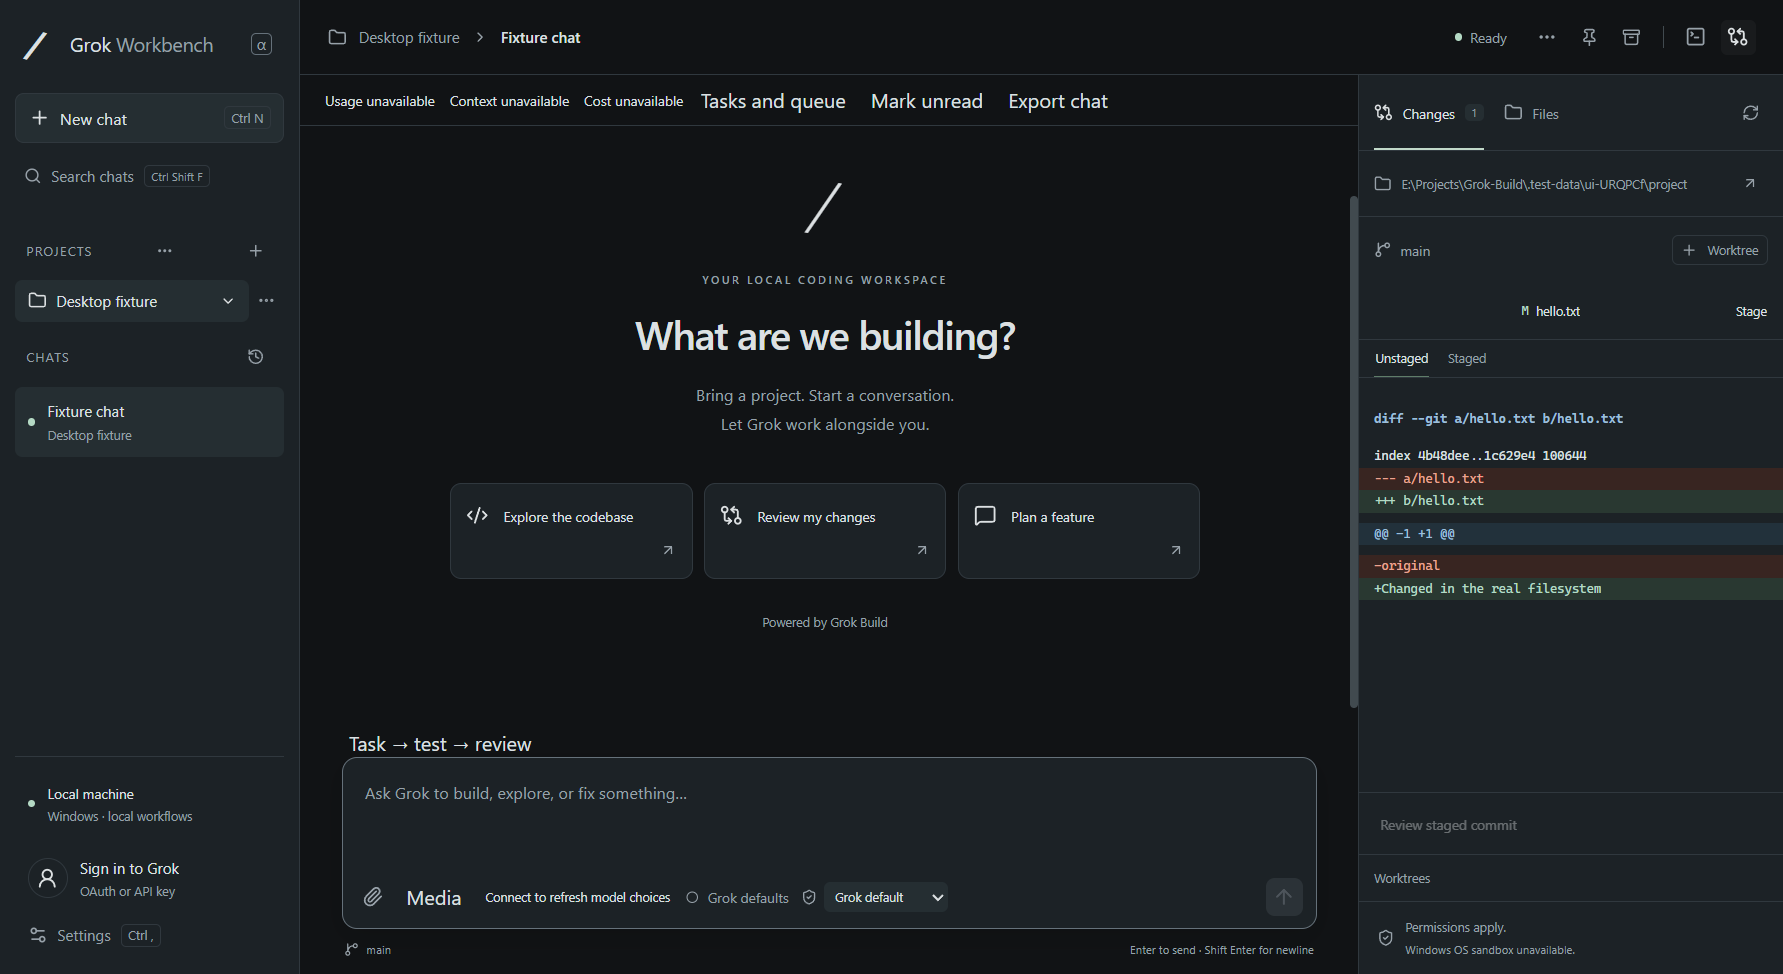
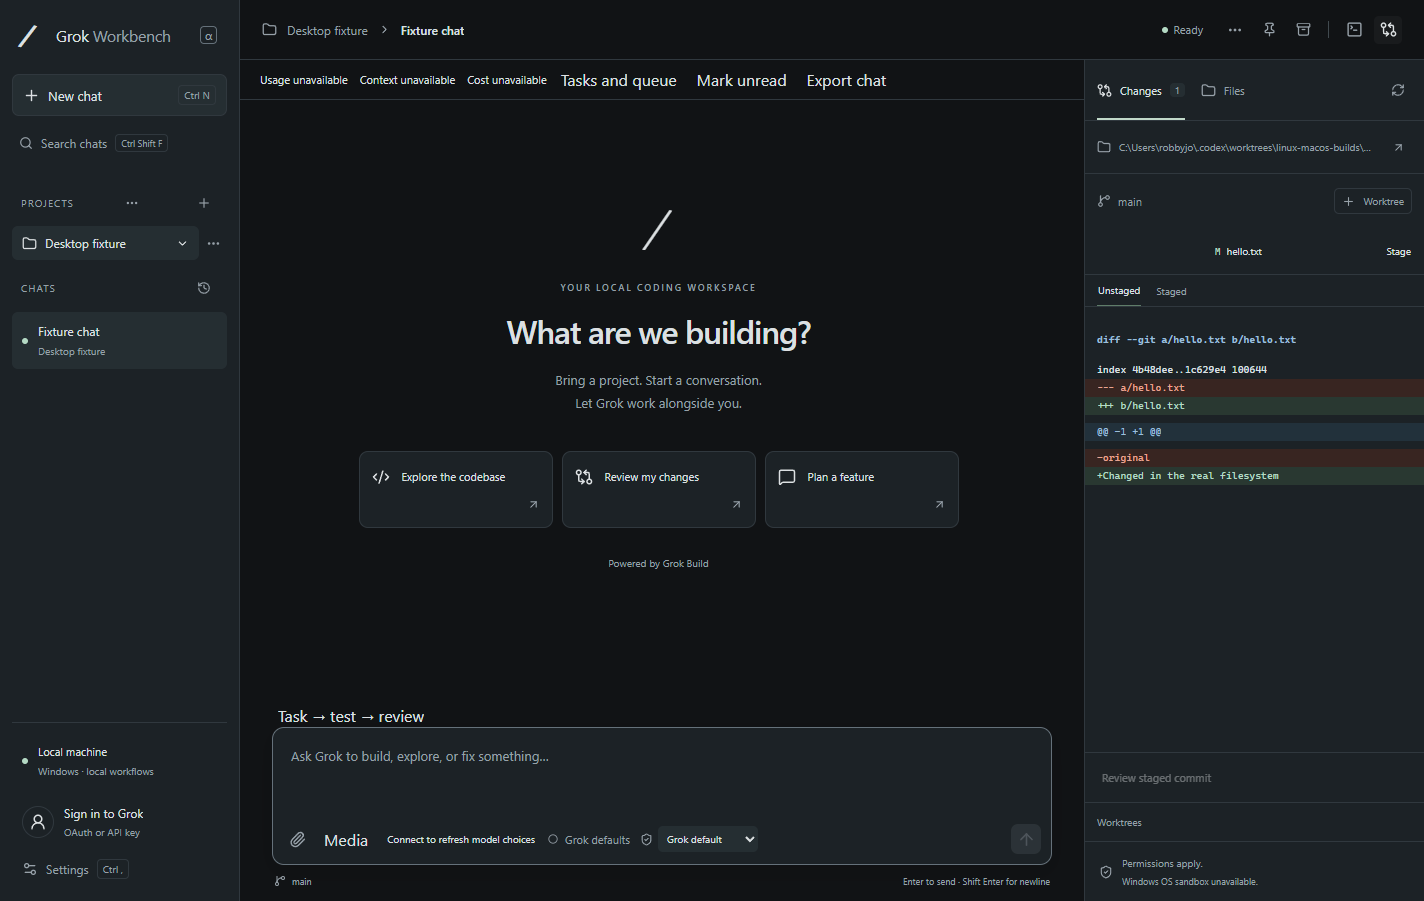
Record verified v0.8.5 publication and refresh website screenshot

diff --git a/website/index.html b/website/index.html
@@ -186,7 +186,7 @@
               fetchpriority="high"
           /></a>
           <figcaption>
-            <span>Grok Workbench 0.8.4 · Windows</span
+            <span>Grok Workbench 0.8.5 · Windows</span
             ><span>Actual app screenshot with a local test project. Click to enlarge.</span>
           </figcaption>
         </figure>

diff --git a/docs/VALIDATION.md b/docs/VALIDATION.md
@@ -2,24 +2,25 @@
 
 Current source version: **Grok Workbench 0.8.5**, with the pinned Grok Rust library embedded instead of a packaged CLI. The merged release adds experimental Linux and UNTESTED macOS packages; dates below use America/New_York. Earlier sections retain historical version-specific names and results.
 
-## 0.8.5 merged release candidate (November 1)
+## 0.8.5 published multi-platform release (November 1)
 
-The platform and extended-workbench branches are combined. Local build/typechecks
-and **111 backend tests** pass, with five optional/platform-specific cases skipped.
-Production dependency audit reports zero advisories. New regressions cover Linux
-provider keyring refusal, portable credential fallback, same-source platform
-publication, Windows update selection among multi-platform assets, and waiting
-for all public website download links. Final CI and publication results are
-recorded after artifact acceptance. Every application package is rebuilt from
-the merged 0.8.5 source; unchanged native-engine compilation caches may be reused
-after Cargo revalidates the pinned source and dependency graph.
+[Release v0.8.5](https://github.com/robbyjo/Grok-Workbench/releases/tag/v0.8.5) is Latest and targets source `626a93a30818d1c66d8a65ee9a95375d44a32ca7`. The merged branches are accepted by [Windows](https://github.com/robbyjo/Grok-Workbench/actions/runs/41274679777), [Linux](https://github.com/robbyjo/Grok-Workbench/actions/runs/41274679751) and [both Mac architectures](https://github.com/robbyjo/Grok-Workbench/actions/runs/41274680825). The [verified-artifact publisher](https://github.com/robbyjo/Grok-Workbench/actions/runs/41277647210) published only their exact accepted application packages. A [one-time CI dispatcher](https://github.com/robbyjo/Grok-Workbench/actions/runs/41277436028) used GitHub's short-lived job token to start the existing main publisher and [website workflow](https://github.com/robbyjo/Grok-Workbench/actions/runs/41277740697); no stored user credential was read or changed.
 
-Thirteen source GUI scenarios pass locally. The screenshot-paste scenario is
-blocked on this session's native clipboard: an independent Electron-only probe
-also writes an image but reads no supported clipboard types. Release still
-requires the complete source and packaged GUI suites on hosted Windows CI.
+Windows passed the full backend suite, all 14 source GUI scenarios, all 14 packaged GUI scenarios, actual portable launch/relocation and replacement/restart/rollback. The screenshot-paste path passed in hosted acceptance; this local desktop session could not read back a native clipboard image in an independent Electron-only probe. Locally the build/typechecks and 111 backend cases passed with five optional/platform-specific cases skipped; the production dependency audit reported zero advisories.
 
-## Unreleased extended workbench (October 31)
+Linux passed native protocol/provider/remote/profile checks and all eight sandbox-enabled desktop groups against the source, extracted Debian package and extracted archive. Independently, the same merged source passed 49 applicable backend checks and eight source GUI groups on the user's Ubuntu machine, using the unchanged previously built engine. System installation, other distributions, real desktop integration and live provider accounts remain unvalidated. Both Mac targets passed native fixtures, packaging and ad-hoc signature verification; **interactive macOS behavior remains UNTESTED until volunteer validation**.
+
+All 18 public assets were downloaded without authentication and matched their GitHub asset digests and sizes. All five packages matched their checksum sidecars and release provenance; Linux ELF and Mac Mach-O engine bytes/CPU types were checked independently. The v0.8.4 release ID, asset IDs, sizes and digests remained unchanged. The engine stays at public Grok Build 1.0.45 with the tested MCP compression backport. Windows remains unsigned; Macs lack Developer ID signing/notarization. Linux/Mac updates are manual.
+
+| Package                                                                                                                                                                     |       Bytes | SHA-256                                                            |
+| --------------------------------------------------------------------------------------------------------------------------------------------------------------------------- | ----------: | ------------------------------------------------------------------ |
[5 lines of base64/hex data omitted]
+
+## Extended workbench qualification before 0.8.5 (October 31)
 
 The [extended workbench additions](EXTENDED-WORKBENCH.md) implement local schedules and durable run records, PR polling/opt-in continuation, paired loopback mobile/REST access, native provider profiles, document/media/browser previews, six-language navigation/common controls, and personalization. The static website now identifies the application as a Grok Build GUI in its title, search/social metadata, heading and introduction. New dependency notices are generated; PDF.js is bundled into the renderer, with its unused Node-only native canvas dependency excluded from production dependency packaging.
 
@@ -29,7 +30,7 @@ The extended desktop scenario configures a provider through Settings, executes o
 
 PDF, mobile, localized Settings and desktop/mobile website screenshots were inspected. The website test checks GUI metadata, image loading and no horizontal overflow at 1,280 px and 390 px widths. This local acceptance did not produce a portable package, publish an app release or deploy the website. Pushing the source triggers the existing Windows CI and website workflows; their outcomes are separate from this local evidence. Hosted provider/API-format matrices, external tunnel/physical-device access, real PR lifecycle, full-interface translation and full accessibility acceptance remain unverified. Existing published 0.8.4 assets are unchanged.
 
-## Unreleased pinned-engine MCP backport (October 31)
+## Pinned-engine MCP qualification before 0.8.5 (October 31)
 
 The embedded Grok Build source stays at **1.0.45**, revision `2bdd1d6a6369de0e8c68132ea4539e9abd9e14a8`; Cargo.lock, the binding ABI and native storage contract are unchanged. MCP's separate reqwest 0.13 client previously treated compressed JSON responses as raw text, failing initialization. Source preparation now enables gzip, Brotli, deflate and Zstandard decoding for that existing dependency. The hook `continue: false` behavior is already present in this source and was not changed.
 

diff --git a/docs/RELEASE-0.8.5.md b/docs/RELEASE-0.8.5.md
@@ -44,3 +44,15 @@ main commit, verifies package bytes and embedded Linux/Mac engine CPU/hash,
 creates a draft, checks every uploaded asset digest and then publishes. Individual
 sidecars, `SHA256SUMS.txt` and `RELEASE-PROVENANCE.json` accompany all downloads.
 The website waits until every advertised download is public before deploying.
+
+## Publication record
+
+[Published release](https://github.com/robbyjo/Grok-Workbench/releases/tag/v0.8.5), source `626a93a30818d1c66d8a65ee9a95375d44a32ca7`. Successful builds: [Windows](https://github.com/robbyjo/Grok-Workbench/actions/runs/41274679777), [Linux](https://github.com/robbyjo/Grok-Workbench/actions/runs/41274679751) and [both Mac architectures](https://github.com/robbyjo/Grok-Workbench/actions/runs/41274680825). The [publisher](https://github.com/robbyjo/Grok-Workbench/actions/runs/41277647210) verified all exact CI artifacts before publication. Independent unauthenticated downloads verified all 18 public assets and all five package checksums; v0.8.4 remains unchanged. See [the complete validation record](VALIDATION.md).
+
+| Package                                                                                                                                                                     |       Bytes | SHA-256                                                            |
+| --------------------------------------------------------------------------------------------------------------------------------------------------------------------------- | ----------: | ------------------------------------------------------------------ |
[5 lines of base64/hex data omitted]

diff --git a/docs/RELEASE-GATES.md b/docs/RELEASE-GATES.md
@@ -1,6 +1,6 @@
 # Release gates and CI publication
 
-The published release is **v0.8.4 unsigned alpha**, built and accepted by [Windows CI](https://github.com/robbyjo/Grok-Workbench/actions/runs/40942229846) from source `77d3c999d23a315e32a7a4162ef342a08a324fe2` and published by the [verified-artifact workflow](https://github.com/robbyjo/Grok-Workbench/actions/runs/40948591831). Its executable, checksum and format-2 manifest were verified against the exact CI artifact and checked again through all three unauthenticated public downloads. GitHub Latest resolves to v0.8.4; the v0.8.3 release/tag/asset identities remain unchanged. Do not replace existing release assets or tags. See [the publication record](VALIDATION.md) for hashes, acceptance results and remaining external gates.
+The published release is **v0.8.5 alpha**, accepted by [Windows](https://github.com/robbyjo/Grok-Workbench/actions/runs/41274679777), [Linux](https://github.com/robbyjo/Grok-Workbench/actions/runs/41274679751) and [both Mac architectures](https://github.com/robbyjo/Grok-Workbench/actions/runs/41274680825) at source `626a93a30818d1c66d8a65ee9a95375d44a32ca7` and published by the [verified-artifact workflow](https://github.com/robbyjo/Grok-Workbench/actions/runs/41277647210). Windows is unsigned, Linux is experimental and both macOS architectures are UNTESTED until volunteer desktop validation. All 18 public downloads matched their recorded sizes/digests; all five packages matched their sidecars/provenance, with Linux/Mac engine CPU/hash checks. GitHub Latest resolves to v0.8.5. Existing v0.8.4 tag and asset identities remain unchanged. Do not replace published release assets or tags. See [the publication record](VALIDATION.md) for hashes, acceptance and remaining external gates.
 
 `.github/workflows/windows.yml` checks formatting/types and focused desktop regressions before building the pinned public native source on GitHub-hosted Windows, then runs backend and source/packaged GUI acceptance and tests portable relocation and replacement/rollback. A source/toolchain/image-keyed Cargo cache retains successful native compilation before later checks. Upload names include the exact source SHA. Windows TEMP aliases are handled consistently by Git ancestry, file listings and saved project identity.
 

diff --git a/docs/WEBSITE.md b/docs/WEBSITE.md
@@ -31,6 +31,6 @@ The repository is configured to use **Settings → Pages → Build and deploymen
 
 ## Screenshot provenance
 
-`website/assets/workbench-screenshot.png` is an unmodified application screenshot from the local `tests/ui/desktop.spec.ts` acceptance run on October 29, 2026 (`.test-data/desktop-welcome.png`). It shows the real 0.8.4 desktop interface and a disposable local test project, with no account credentials or private conversation. The caption explicitly identifies the test project. Click the screenshot on the website to view it at full size.
+`website/assets/workbench-screenshot.png` is an unmodified application screenshot from the local `tests/ui/desktop.spec.ts` acceptance run on November 1, 2026 (`.test-data/desktop-welcome.png`). It shows the real 0.8.5 desktop interface and a disposable local test project, with no account credentials or private conversation. The caption explicitly identifies the test project. Click the screenshot on the website to view it at full size.
 
[2 lines of base64/hex data omitted]

diff --git a/docs/EXPERIMENTAL-PLATFORMS.md b/docs/EXPERIMENTAL-PLATFORMS.md
@@ -20,7 +20,7 @@ Silicon packages are built on separate GitHub-hosted macOS runners using the
 hardware.** Compilation, native protocol fixtures, and signature verification
 do not establish normal desktop, account, or agent behavior.
 
-The 0.8.5 candidate extends native fixture acceptance to provider routing,
+The published 0.8.5 release extends native fixture acceptance to provider routing,
 schedules, paired remote HTTP controls and secure key storage. Remembered
 provider keys use the same Linux keyring protection as xAI keys; `basic_text`
 and unknown backends are refused. Linux acceptance exercises the source app
